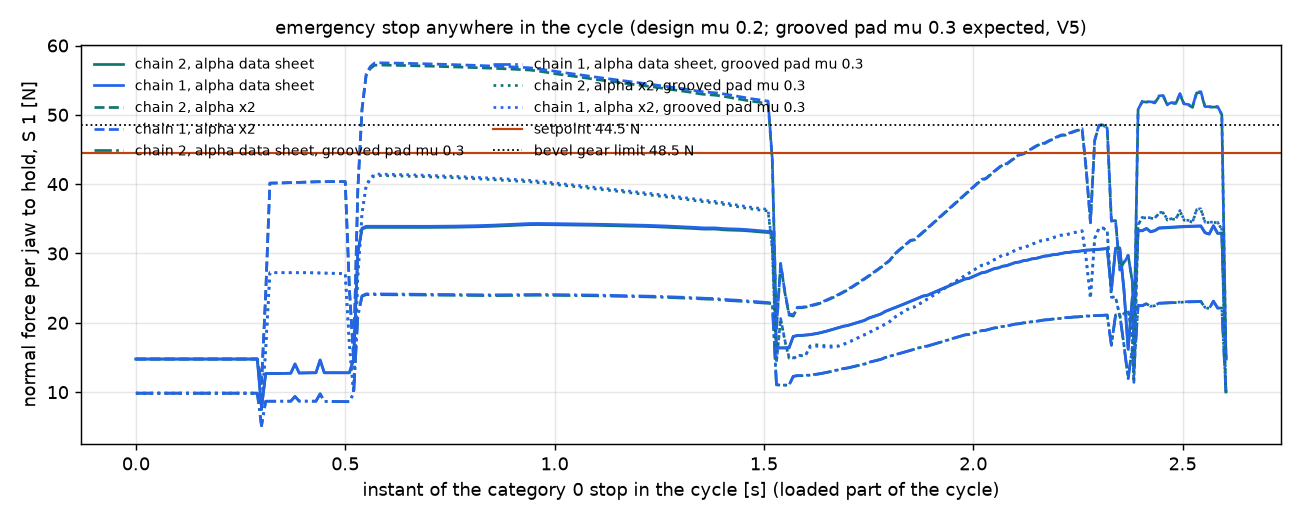
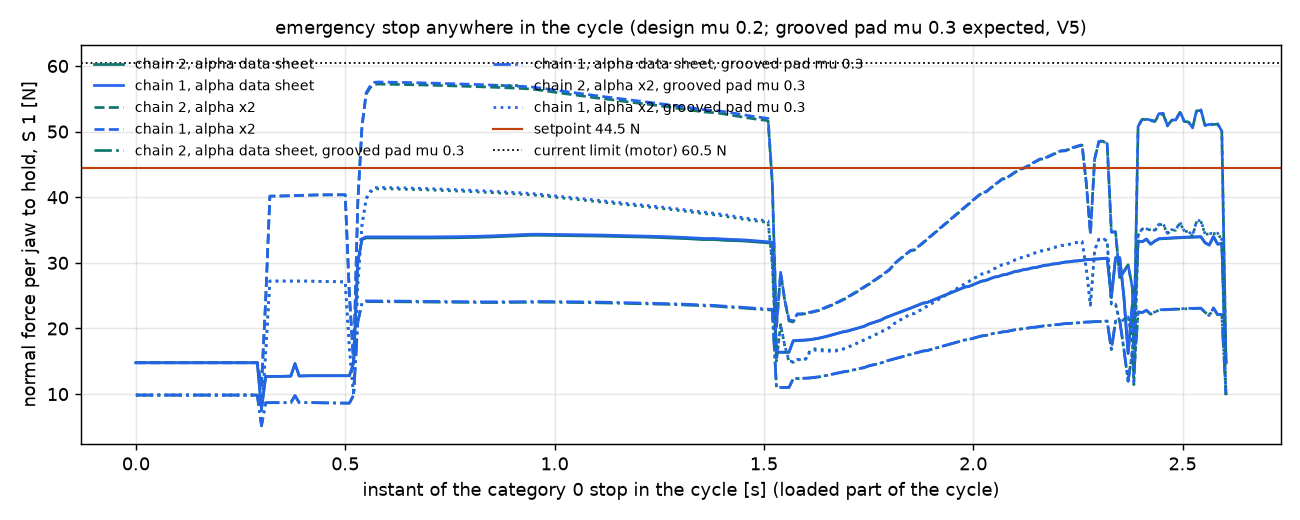
Review 1.7: drive chain margins with tolerances (drive_margin.py); bevel pair KHK SMSG1.5-20 instead of SMSG1-20 (m 1 was loaded 108-144 % with K_A), drive axis 36 mm, hood +2 mm, key 2x2x12, grip force calibrated at commissioning

diff --git a/Elias/02_CAD_Body/drive_margin.py b/Elias/02_CAD_Body/drive_margin.py
@@ -1,0 +1,109 @@
+"""Drive chain margins with tolerances: setpoint < current limit < bevel pair, key and overloads (review 1.7, 21 Nov 2026).
+
+python drive_margin.py  ->  table per bevel option, out/drive_margin.json
+
+Normal operation: the controller sets a motor current; the grip force that results scatters with the motor's torque
+constant, the driver's current accuracy and the efficiencies. Low end: does the part still hold? High end: torque on
+the bevel teeth (driving side, before the bevel loss) against the catalogue rating with the application factor.
+Two ways to set the current: from the data sheet values, or calibrated once at commissioning with a grip force gauge
+(then only the gauge and the drift with temperature remain).
+Rare overloads (a few hundred in the life at most): judged against the static capacity, ISO 6336 life factors for
+induction-hardened steel at N <= 1e5 (flank Z_NT 1.6, torque ~ sigma_H^2; root Y_NT 2.5).
+"""
+import json
+import os
+import sys
+
+HERE = os.path.dirname(os.path.abspath(__file__))
+sys.path.insert(0, HERE)
+import gripper_params as P  # noqa: E402
+
+R = P.PINION_D / 2 / 1000
+K_A = 1.25                       # application factor, V2 (electric motor, light shocks at the part contact)
+LIFE_GRIPS = 16 * 3600 / P.TAKTZEIT * 250 * 10      # 2 shifts, 250 days, 10 years: 2.9e7 load cycles, same teeth each time
+Z_NT_STATIC, Y_NT_STATIC = 1.6, 2.5
+F_NEED = {"path, twist incl., S 2 (grip_check, 5.35 m/s2)": 35.9,
+          "e-stop ABB stop data, S 1 (e_stop.py)": 34.3}
+
+TOL = {   # (low, high) relative to nominal
+    "datasheet": dict(k_t=(0.90, 1.10), current=(0.97, 1.03), eta_g=(0.85 / 0.90, 0.95 / 0.90),
+                      eta_b=(0.97 / 0.98, 0.99 / 0.98), eta_rp=(0.95 / 0.97, 0.98 / 0.97)),
+    "calibrated": dict(force=(0.95, 1.05)),      # force gauge 1 % + k_T drift over 20 ... 60 deg C (NdFeB ~ -0.1 %/K)
+}
+
+BEVELS = {
+    "KHK SMSG1-20 (before 21 Nov)": dict(t_bend=1.17, t_surf=0.97, key_l=8.0, mass_pair=0.038),
+    "KHK SMSG1.5-20 (built)": dict(t_bend=4.1, t_surf=3.47, key_l=12.0, mass_pair=0.055),
+}
+KEY_D, KEY_HUB_H = 8.0, P.KEY_H - P.KEY_T1          # shaft d, key height in the hub (0.8 mm)
+P_KEY_STATIC = 0.9 * 345.0                         # MPa, hub S45C normalised (Re >= 345), DIN 6892 static
+
+
+def torque_on_bevel(f_jaw, eta_b=P.ETA_BEVEL, eta_rp=P.ETA_RP):
+    """Driving-side bevel torque [N*m] for a jaw force [N] (one pinion drives both racks)."""
+    return 2 * R * f_jaw / (eta_b * eta_rp)
+
+
+def operation(f_set=P.F_GRIP_SET):
+    out = {}
+    t_nom = torque_on_bevel(f_set)
+    d = TOL["datasheet"]
+    lo = d["k_t"][0] * d["current"][0] * d["eta_g"][0] * d["eta_b"][0] * d["eta_rp"][0]
+    out["datasheet"] = dict(f_low=f_set * lo, t_high=t_nom * d["k_t"][1] * d["current"][1] * d["eta_g"][1])
+    c = TOL["calibrated"]["force"]
+    out["calibrated"] = dict(f_low=f_set * c[0], t_high=torque_on_bevel(f_set * c[1], 0.97, 0.95))
+    return t_nom, out
+
+
+def key_pressure(t, key_l):
+    return 2 * t * 1000 / (KEY_D * KEY_HUB_H * (key_l - P.KEY_B))
+
+
+def impact_peak():
+    """Largest pad force when closing straight in without the two-stage profile (closing_time.py)."""
+    f = os.path.join(HERE, "..", "04_Simulation", "out", "closing_results.json")
+    cases = json.load(open(f, encoding="utf-8"))["cases"]
+    return max(c["f_peak"] for c in cases if c["profile"] == "direct")
+
+
+def overloads():
+    eta_g_hi = 0.95
+    f_imp = impact_peak()
+    return {
+        "full current (current limit lost), k_T +10 %": P.MOTOR_T_HOLD * 1.10 * P.GEAR_I * eta_g_hi,
+        f"direct close without the two-stage profile ({f_imp:.0f} N impact)": torque_on_bevel(f_imp),
+        "LC5: jaw pushed with power off until the brake slips": P.BRAKE_T * P.GEAR_I,
+    }
+
+
+def main():
+    t_nom, op = operation()
+    res = dict(setpoint=P.F_GRIP_SET, t_nominal=t_nom, K_A=K_A, life_grips=LIFE_GRIPS, f_need=F_NEED,
+               operation=op, overloads=overloads(), bevels={})
+    print(f"setpoint {P.F_GRIP_SET:.1f} N per jaw -> bevel torque {t_nom:.3f} N*m nominal; "
+          f"{LIFE_GRIPS:.2e} grips in 10 years, K_A {K_A}")
+    for mode, v in op.items():
+        print(f"  current set by {mode:10s}: jaw force >= {v['f_low']:.1f} N (needed {max(F_NEED.values()):.1f}),"
+              f" bevel torque <= {v['t_high']:.3f} N*m")
+    for name, b in BEVELS.items():
+        rows = {}
+        print(f"\n{name}: bending {b['t_bend']} N*m, surface {b['t_surf']} N*m (catalogue, 1e7 cycles)")
+        for mode, v in op.items():
+            ub, us = v["t_high"] * K_A / b["t_bend"], v["t_high"] * K_A / b["t_surf"]
+            rows[mode] = dict(use_bending=ub, use_surface=us, key_MPa=key_pressure(v["t_high"], b["key_l"]))
+            print(f"  operation, {mode:10s}: K_A T / T_bend {ub:5.2f}   K_A T / T_surf {us:5.2f}   "
+                  f"key {rows[mode]['key_MPa']:5.0f} MPa")
+        for oname, t in res["overloads"].items():
+            ub = t / (b["t_bend"] * Y_NT_STATIC)
+            us = t / (b["t_surf"] * Z_NT_STATIC ** 2)
+            pk = key_pressure(t, b["key_l"])
+            rows[oname] = dict(torque=t, use_bending=ub, use_surface=us, key_MPa=pk)
+            print(f"  {oname[:58]:58s} {t:5.2f} N*m: static use bending {ub:4.2f}, flank {us:4.2f}, "
+                  f"key {pk:4.0f} of {P_KEY_STATIC:.0f} MPa")
+        res["bevels"][name] = dict(b, rows=rows)
+    os.makedirs(os.path.join(HERE, "out"), exist_ok=True)
+    json.dump(res, open(os.path.join(HERE, "out", "drive_margin.json"), "w", encoding="utf-8"), indent=1)
+
+
+if __name__ == "__main__":
+    main()

diff --git a/Elias/02_CAD_Body/gripper_params.py b/Elias/02_CAD_Body/gripper_params.py
@@ -134,15 +134,19 @@ BACKLASH_SHIFT = 0.05               # racks 0.05 mm further out -> about 0.036 m
 # Motor, gearbox and brake lie along X under a flat hood; a bevel pair 1:1 turns the drive down onto a pinion shaft
 # at x = PINION_X. The racks have different lengths so the jaws, the hood and the flange all stay centred.
 PINION_X = -56.0
-DRIVE_Z = 32.5                      # drive axis height: NEMA 17 (42.3 square) clears the top plate
+DRIVE_Z = 36.0                      # drive axis height: room for the m 1.5 bevel wheel above the upper bearing
 PINION_Z0 = -11.0                   # pinion teeth z -11..-1, 1 mm above the rack bosses on the slides
-# KHK SMSG1-20R / SMSG1-20L: ground spiral miter gears, S45C teeth induction hardened 50-60 HRC, allowable torque
-# 0.97 N*m (surface) / 1.17 N*m (bending). C45 straight bevels carried only 0.70 N*m (V2 § 5, flank at the limit).
-# Reworked: bore 6 -> 8 H7 (+ key 2 on the wheel), hub faced from mounting distance 20 to 16 (tooth area untouched).
-# Modelled with straight teeth as a stand-in, same pitch diameter, face width and hub.
-BEVEL_Z, BEVEL_B, BEVEL_HUB_D, BEVEL_HUB_L = 20, 5.0, 16.0, 6.0
-BEVEL_T_ALLOW = 0.97                # N*m, KHK surface durability (600 rpm, 1e7 cycles): caps the grip force at 48 N
-F_JAW_LIMIT = BEVEL_T_ALLOW / (2 * PINION_D / 2 / 1000)   # N per jaw: current limit in the controller, never above
+# KHK SMSG1.5-20R / SMSG1.5-20L: ground spiral miter gears m 1.5, S45C teeth induction hardened, allowable torque
+# 4.1 N*m (bending) / 3.47 N*m (surface). The m 1 pair (1.17 / 0.97 N*m) carried the setpoint only at K_A 1 and with
+# no tolerance: with K_A 1.25 and the scatter of the current setting it was loaded to 108 ... 144 % (drive_margin.py,
+# review 1.7, 21 Nov). Bore 8 as bought (+ key 2 on the wheel), hubs turned down to 16 (the wheel hub sits inside the
+# DIN 472 ring), the wheel hub faced to mounting distance 19. Modelled with straight teeth, same pitch cone and hub.
+BEVEL_M, BEVEL_Z, BEVEL_B, BEVEL_HUB_D, BEVEL_HUB_L = 1.5, 20, 8.0, 16.0, 5.0
+BEVEL_T_ALLOW, BEVEL_T_BEND = 3.47, 4.1     # N*m, KHK surface durability / bending (catalogue, 600 rpm)
+K_A_DRIVE = 1.25                            # application factor (V2)
+# Current limit = the highest grip force the controller may be set to: the motor at full current (the bevel pair,
+# with K_A and +5 % calibration scatter, would allow about 130 N per jaw).
+F_JAW_LIMIT = min(F_JAW_AVAIL, BEVEL_T_ALLOW / K_A_DRIVE * ETA_BEVEL * ETA_RP / (2 * PINION_D / 2 / 1000) / 1.05)
 assert F_GRIP_SET <= F_JAW_LIMIT <= F_JAW_AVAIL, (F_GRIP_SET, F_JAW_LIMIT, F_JAW_AVAIL)
 BEARING = (8.0, 22.0, 7.0)          # DIN 625 608-2Z
 BEARING_LOWER_Z, BEARING_UPPER_Z = 0.0, 9.5
@@ -151,14 +155,14 @@ BOSS_TOP = BEARING_UPPER_Z + BEARING[2] + 2.0   # 2 mm above the upper bearing f
 SHOULDER_D = 15.0                   # housing shoulder under the outer rings only (608 inner ring OD ~12, outer ring ID ~18.6)
 SHIM_T = 0.5                        # DIN 988 8x14 under the bevel wheel hub, 0.1-0.5 picked at assembly to set the mesh
 COLLAR_D = 10.5                     # shaft collar under the lower inner ring (loose bearing, inner ring k6 on the shaft)
-KEY_B, KEY_H, KEY_T1, KEY_T2, KEY_L = 2.0, 2.0, 1.2, 1.0, 8.0   # DIN 6885 A 2x2x8 for d = 6...8
-SHAFT_TOP = 27.0
+KEY_B, KEY_H, KEY_T1, KEY_T2, KEY_L = 2.0, 2.0, 1.2, 1.0, 12.0  # DIN 6885 A 2x2x12 for d = 6...8
+SHAFT_TOP = 30.0                     # carries the 12 mm key inside the m 1.5 wheel
 BEVEL_WHEEL_DZ = -0.25              # 0.25 mm lower than nominal: interference-free mesh with a little backlash (fitted)
 GEAR_SHAFT_L = 22.6                 # GP42 output shaft beyond the flange (STEP)
 BRACKET_T, BRACKET_FOOT_Y, BRACKET_FOOT_W = 6.0, 25.25, 6.5   # feet beside the gearbox, M3
 HOOD_Y, HOOD_WALL, HOOD_R = 38.0, 3.0, 12.0     # hood y = +-38: symmetric, flush with the flange (D76) and the +y face
 BRAKE_TURN_X = 95.0                 # brake leads stay inside the hood (the STEP has open lead stubs)
-HOOD_TOP, HOOD_TOP_T, HOOD_SEAT = 63.0, 5.0, 3.0   # 3 mm seat ring under the adapter carries the M4 threads
+HOOD_TOP, HOOD_TOP_T, HOOD_SEAT = 65.0, 5.0, 3.0   # 3 mm seat ring under the adapter carries the M4 threads
 HOOD_SCREW_X, HOOD_SCREW_Y = 69.5, (-25.0, 25.0)   # M4 from below into bosses in the hood corners
 RACK_SPAN = {1: (-72.5, 37.5), -1: (-61.98, -18.0)}     # x at d = 0
 RACK_TEETH_SIDE = {1: 35, -1: 14}

diff --git a/Elias/02_CAD_Body/build.py b/Elias/02_CAD_Body/build.py
@@ -95,7 +95,7 @@ def build_static(gear_pin, gear_racks, bev):
             "Bevel_Wheel": (D.wheel(bev), "steel", "rot"),
             "Bevel_Pinion": (D.bevel_pinion(bev), "steel", "rotx"),
             "Setscrew_ISO4029-M4x4_Wheel": (F.iso4029_x(4, 4, xp - P.BEVEL_HUB_D / 2, 0, D.hub_z0() + 3, 1), "steel", "rot"),
-            "Key_DIN6885-A2x2x8": (D.key(), "steel", "rot"),
+            "Key_DIN6885-A2x2x12": (D.key(), "steel", "rot"),
             "Shim_DIN988-8x14": (D.shim(), "steel", "rot"),
             "Window_Plate": (D.window_plate(), "EN AW-6082", 0),
             "Cable_Gland_Lapp_SKINTOP_M16": (D.gland(), "vendor", 0),
@@ -335,8 +335,8 @@ BOM_INFO = {
     "Hood": ("Drive hood", "own part, milled", "EN AW-6082 T6"),
     "Bracket": ("Drive bracket", "own part, milled", "EN AW-6082 T6"),
     "Pinion_Shaft": ("Pinion shaft m = 1, z = 20", "own part, turned + hobbed", "16MnCr5 case hardened"),
-    "Bevel_Wheel": ("Spiral miter gear m = 1, z = 20, left hand; rebored 8 H7 + key 2, hub faced to mounting dist. 16", "KHK SMSG1-20L", "S45C, teeth induction hardened"),
-    "Bevel_Pinion": ("Spiral miter gear m = 1, z = 20, right hand; rebored 8 H7, hub faced to mounting dist. 16", "KHK SMSG1-20R", "S45C, teeth induction hardened"),
+    "Bevel_Wheel": ("Spiral miter gear m = 1.5, z = 20, left hand; bore 8 H7 + key 2, hub turned to D16, faced to mounting dist. 19", "KHK SMSG1.5-20L", "S45C, teeth induction hardened"),
+    "Bevel_Pinion": ("Spiral miter gear m = 1.5, z = 20, right hand; bore 8 H7, hub turned to D16 x 5", "KHK SMSG1.5-20R", "S45C, teeth induction hardened"),
     "Bearing_608_lower": ("Deep groove ball bearing 608-2Z", "DIN 625 (Schaeffler / SKF)", "steel"),
     "Bearing_608_upper": ("Deep groove ball bearing 608-2Z", "DIN 625 (Schaeffler / SKF)", "steel"),
     "Adapter_ISO9409": ("Robot adapter ISO 9409-1-40-4-M6", "own part, turned", "EN AW-6082 T6"),
@@ -364,7 +364,7 @@ BOM_INFO = {
     "Spring_Guide": ("Spring guide pin d 9 h7, pressed into the driver", "own part, turned", "C45"),
     "Fitting_QSM-M5-4": ("Push-in fitting QSM-M5-4 (cylinder ports)", "Festo", "-"),
     "Bulkhead_QSS-4": ("Push-in bulkhead fitting QSS-4 (riser wall, tubes PUN-4 to the valve)", "Festo", "-"),
-    "Key_DIN6885-A2x2x8": ("Parallel key DIN 6885 A 2 x 2 x 8 (bevel wheel)", "standard part", "C45+C"),
+    "Key_DIN6885-A2x2x12": ("Parallel key DIN 6885 A 2 x 2 x 12 (bevel wheel)", "standard part", "C45+C"),
     "Shim_DIN988-8x14": ("Shim ring DIN 988 8 x 14 x 0.1 / 0.2 / 0.5 (set the bevel mesh)", "standard part", "spring steel"),
     "Circlip_DIN471-8": ("Retaining ring DIN 471 8 x 0.8 (fixed bearing, shaft)", "standard part", "spring steel"),
     "Circlip_DIN472-22": ("Retaining ring DIN 472 22 x 1 (fixed bearing, bore)", "standard part", "spring steel"),
@@ -504,7 +504,7 @@ def main():
     report["inertia_cog_kgm2"] = [[v * 1e-6 for v in row] for row in J]
     print(f"inertia about the CoG [kg*m2]: Jxx {J[0][0] * 1e-6:.5f}, Jyy {J[1][1] * 1e-6:.5f}, Jzz {J[2][2] * 1e-6:.5f}")
     print(f"grip force per jaw: required {P.F_GRIP_OILY:.1f} N (hand calc.), setpoint {P.F_GRIP_SET:.1f} N (real path), "
-          f"current limit {P.F_JAW_LIMIT:.1f} N (bevel), available {P.F_JAW_AVAIL:.1f} N, strength case {P.F_JAW_MAX:.1f} N; "
+          f"current limit {P.F_JAW_LIMIT:.1f} N, available {P.F_JAW_AVAIL:.1f} N, strength case {P.F_JAW_MAX:.1f} N; "
           f"brake {P.T_PINION_BRAKE:.2f} N*m at the pinion")
     print(f"flange face z = {info['flange_z']:.1f}, cover underside z = {P.POCKET_Z - P.COVER_T:.1f}, "
           f"build height {info['flange_z'] - (P.POCKET_Z - P.COVER_T):.1f} mm above the jaws")

diff --git a/Elias/02_CAD_Body/parts/drive.py b/Elias/02_CAD_Body/parts/drive.py
@@ -14,7 +14,7 @@ def bevel_gears(doc):
     from freecad.gears.bevelgear import BevelGear
     g = doc.addObject("Part::FeaturePython", "_bevel_gen")
     BevelGear(g)
-    g.num_teeth, g.module, g.height, g.pitch_angle = P.BEVEL_Z, P.MODUL, P.BEVEL_B, 45
+    g.num_teeth, g.module, g.height, g.pitch_angle = P.BEVEL_Z, P.BEVEL_M, P.BEVEL_B, 45
     doc.recompute()
     s = g.Shape.copy()
     doc.removeObject(g.Name)
@@ -54,7 +54,7 @@ def key_z():
 
 
 def key():
-    """DIN 6885 A 2x2x8 in the shaft (t1 = 1.2) and the wheel hub (t2 = 1.0)."""
+    """DIN 6885 A 2x2x12 in the shaft (t1 = 1.2) and the wheel hub (t2 = 1.0)."""
     k0, k1 = key_z()
     x0 = XP + P.BEARING[0] / 2 - P.KEY_T1 + 0.05
     return box(x0, x0 + P.KEY_H, -P.KEY_B / 2, P.KEY_B / 2, k0, k1)
@@ -81,9 +81,9 @@ def circlip_bore():
 def wheel(bev):
     """Bevel wheel on the pinion shaft: large end down, apex on the drive axis."""
     s = bev.copy()
-    s.translate(V(XP, 0, ZA - P.BEVEL_Z * P.MODUL / 2 + P.BEVEL_WHEEL_DZ))
+    s.translate(V(XP, 0, ZA - P.BEVEL_Z * P.BEVEL_M / 2 + P.BEVEL_WHEEL_DZ))
     z_hub = hub_z0()
-    s = s.fuse(cylz(P.BEVEL_HUB_D / 2, z_hub, ZA - P.BEVEL_Z * P.MODUL / 2 + 0.1, XP, 0))
+    s = s.fuse(cylz(P.BEVEL_HUB_D / 2, z_hub, ZA - P.BEVEL_Z * P.BEVEL_M / 2 + 0.1, XP, 0))
     s = s.cut(cylz(P.BEARING[0] / 2, z_hub - 1, ZA + 1, XP, 0))
     s = s.cut(box(XP + P.BEARING[0] / 2 - 1, XP + P.BEARING[0] / 2 + P.KEY_T2, -P.KEY_B / 2, P.KEY_B / 2, z_hub - 1, ZA + 1))   # keyway
     s = s.cut(cylx(1.65, XP - P.BEVEL_HUB_D / 2 - 1, XP - P.BEARING[0] / 2 + 0.5, 0, z_hub + 3))   # M4 set screw, axial only
@@ -92,7 +92,7 @@ def wheel(bev):
 
 def bevel_pinion(bev):
     """Bevel pinion on the gearbox shaft: axis along X, apex at the pinion shaft axis."""
-    r = P.BEVEL_Z * P.MODUL / 2
+    r = P.BEVEL_Z * P.BEVEL_M / 2
     s = bev.copy()
     s = s.fuse(cylz(P.BEVEL_HUB_D / 2, -P.BEVEL_HUB_L, 0.1))
     s = s.cut(cylz(P.BEARING[0] / 2, -P.BEVEL_HUB_L - 1, r + 1))
@@ -103,7 +103,7 @@ def bevel_pinion(bev):
 
 
 def gearbox_flange_x():
-    return XP + P.BEVEL_Z * P.MODUL / 4 + P.GEAR_SHAFT_L    # shaft end reaches the small end of the bevel pinion
+    return XP + 5.0 + P.GEAR_SHAFT_L    # shaft end 5 mm from the pinion shaft axis, inside the m 1.5 bevel pinion's bore
 
 
 def bracket_screws():  # M3

diff --git a/Elias/04_Simulation/e_stop.py b/Elias/04_Simulation/e_stop.py
@@ -153,7 +153,7 @@ def plot(out):
             rows = np.array(sc["_rows"][c])
             ax.plot(rows[:, 0], rows[:, 1], ls, color=col, lw=1.5, label=f"{c.replace('_', ' ')}, alpha {tag}")
     ax.axhline(out["setpoint"], color="#C2410C", lw=1.2, label=f"setpoint {out['setpoint']:.1f} N")
-    ax.axhline(out["current_limit"], color="k", lw=1.0, ls=":", label=f"bevel gear limit {out['current_limit']:.1f} N")
+    ax.axhline(out["current_limit"], color="k", lw=1.0, ls=":", label=f"current limit (motor) {out['current_limit']:.1f} N")
     ax.set_xlabel("instant of the category 0 stop in the cycle [s] (loaded part of the cycle)")
     ax.set_ylabel("normal force per jaw to hold, S 1 [N]")
     ax.set_title("emergency stop anywhere in the cycle (design mu 0.2; grooved pad mu 0.3 expected, V5)", fontsize=10)

diff --git a/Elias/04_Simulation/drive.py b/Elias/04_Simulation/drive.py
@@ -19,7 +19,7 @@ POLE_PAIRS = 50                                   # 1.8 deg step
 K_M = GP.MOTOR_T_HOLD / I_RATED                   # N*m/A = V*s/rad
 # Not on the datasheets, estimated: GP42 1-stage input side, BWA friction disc (~8 g, d 30), bevel pair + pinion shaft
 J_GEAR_IN, J_BRAKE = 1.5e-6, 1.0e-6
-J_OUT = 2 * 0.5 * 0.012 * 0.010 ** 2 + 0.5 * 0.035 * 0.005 ** 2   # at the pinion: bevel gears + shaft
+J_OUT = 2 * 0.5 * 0.028 * 0.012 ** 2 + 0.5 * 0.035 * 0.005 ** 2   # at the pinion: m 1.5 bevel gears (CAD 26 + 29 g) + shaft
 # moving mass per jaw: slide, holder, jaw, ball carriage, rack (bom.csv)
 M_JAW = (73 + 29 + 31 + 51 + 65) / 1000.0
 F_FRICTION = 2.5                                  # N per jaw: carriage seals + brush seal along the slot (estimate)

diff --git a/Elias/02_CAD_Body/parts/cabinet.py b/Elias/02_CAD_Body/parts/cabinet.py
@@ -9,7 +9,7 @@ import os
 # (designation, standard / supplier, qty, why)
 CABINET_BOM = [
     ("Closed-loop stepper controller, 12-58 V, 3 A / 6 A peak, encoder input, brake output, 4 DI / 2 DO, NanoJ",
-     "Nanotec CL4-E-1-12", 1, "drives motor, encoder and brake; current limit = grip force (48.5 N max per jaw)"),
+     "Nanotec CL4-E-1-12", 1, "drives motor, encoder and brake; current limit = grip force (setpoint 44.5 N per jaw, calibrated at commissioning)"),
     ("Power supply 24 V DC, 5 A (120 W), DIN rail", "Mean Well SDR-120-24", 1,
      "about 2.5x the peak load, recharges the buffer"),
     ("Buffer module 24 V, >= 200 ms at 20 A (> 1 s at the 2 A of the gripper), capacitive", "PULS UF20.241", 1,

diff --git a/Elias/01_Robot/mark_datasheets.py b/Elias/01_Robot/mark_datasheets.py
@@ -65,7 +65,7 @@ SHEETS = [
      [("row", "7,8", 0)]),
     ("khk_smsg", os.path.join(CAD_V, "khk_smsg_p260.pdf"), 1,
      "SMSG1-20R/L: allowable torque 1.17 N m (bending), 0.97 N m (surface), teeth induction hardened",
-     "bevel pair after V2 § 5; 0.97 N m sets the current limit 48.5 N per jaw",
+     "bevel pair after V2 § 5; m 1 pair replaced by SMSG1.5-20 (4.1 / 3.47 N m) on 21 Nov, drive_margin.py",
      [("row", "0.97", 0), ("first", "Teeth induction hardened")]),
 ]
 

diff --git a/Elias/02_CAD_Body/CAD_PLAN.md b/Elias/02_CAD_Body/CAD_PLAN.md
@@ -11,7 +11,7 @@ Status: 10 Nov 2026, proposal. Replaces "Onshape is the leading CAD model" in PL
 | D3 | Standard parts | **Standard or catalogue part wherever one exists**, from large, well-known (preferably German) manufacturers, metric; own parts only where the geometry is specific to part B or to our layout | Shorter BOM, ratings come from datasheets instead of own proofs, cheaper to justify. |
 | D4 | Guide | **Miniature ball rail size 9, one rail, two carriages** (Bosch Rexroth: carriage SLS **R0444 913 01**, rail **R0445**, L = 110), rail on a 3 mm land that is also the reference shoulder; C0 = 3150 N, Mt0 = 14.5 N·m, ML0 = 14.0 N·m (catalogue R999001206). Worst case 63.6 N × ≈ 70 mm ≈ 4.5 N·m → S0 ≈ 3 (≈ 2 with the yaw moment added); normal operation (≈ 36 N) S0 ≈ 4 | Catalogue part with rated static moments; size 9 instead of 12 since 10 Nov to slim the housing. One shared rail keeps both jaws parallel by construction. |
 | D5 | Gear | **m = 1, pinion z = 20 (d = 20 mm), steel racks, both catalogue** | z = 20 is above the undercut limit (17), no profile shift. 14 mm stroke = 80° pinion rotation. Pinion torque for 14.3 N per jaw: 2 · 14.3 N · 10 mm = **0.29 N·m**. `cad/params.py` already says z = 20; PLAN.md still says z = 16 and gets corrected. |
-| D6 | Drive | **Lying drive under a flat hood** (variant 4, decided 10 Nov 2026): Nanotec ST4118S1404-B + GP42-S1-7-SR + BRAKE-BWA-0,35-5 along X; a 1:1 bevel pair (Maedler m = 1, z = 20) turns it onto a pinion shaft (own part, two DIN 625 608-2Z) at x = -56. Racks of 35 and 14 teeth keep jaws, hood and flange centred because both racks always run at the same speed in opposite directions. | Stem 63 mm instead of 124 mm, flange to grip centre 148 mm instead of 208 mm, nothing overhangs; COG 3 mm off the flange axis. GPLE22 rejected: 20 N permissible shaft load against ≈ 30 N from the bevel pinion. Static torque at the pinion 1.27 N·m (63.6 N per jaw), brake 2.5 N·m. |
+| D6 | Drive | **Lying drive under a flat hood** (variant 4, decided 10 Nov 2026): Nanotec ST4118S1404-B + GP42-S1-7-SR + BRAKE-BWA-0,35-5 along X; a 1:1 bevel pair (KHK SMSG1.5-20 R/L since 21 Nov, ground spiral teeth, m = 1.5, z = 20) turns it onto a pinion shaft (own part, two DIN 625 608-2Z) at x = -56. Racks of 35 and 14 teeth keep jaws, hood and flange centred because both racks always run at the same speed in opposite directions. | Stem 63 mm instead of 124 mm, flange to grip centre 148 mm instead of 208 mm, nothing overhangs; COG 3 mm off the flange axis. GPLE22 rejected: 20 N permissible shaft load against ≈ 30 N from the bevel pinion. Static torque at the pinion 1.27 N·m (63.6 N per jaw), brake 2.5 N·m. |
 | D7 | Jaw quick change | **2 dowel pins ISO 8734 + 1 indexing plunger (catalogue, e.g. GN 617) per jaw** on the carriage plate | The assignment requires quick-change jaws ("Greiferzangen ... mit einem Schnellwechselsystem"), not a tool changer. Pins locate, the plunger locks, no tool needed. |
 | D8 | Robot interface | **Round adapter Ø76 to ISO 9409-1-40-4-M6** (ABB IRB 1300-7/1.4), fixed to the motor housing lid from the top with 4 × ISO 10642 M4 on PCD 62 | Prescribed by the robot; screw heads stay reachable outside the robot flange. |
 | D9 | Visuals | **Blender** (glTF from FreeCAD) for materials, renders and the open/close animation | FreeCAD has no proper material rendering. Same parameters drive the Blender rig. |
@@ -244,6 +244,31 @@ for the load, thread engagement by material, sealing, fits). Found and fixed in 
    gripper). Now 2 mm bosses (1.7 × d), HELICOIL inserts for bracket and adapter (1.5 × d with insert; a 2 × d thread would come within 1 mm of the pocket edge).
 6. Holder slots in the cover open to oil and chips: brush seal strips (BOM).
 7. Fits and tolerances missing: section 9.
+
+## 11. Drive chain margins (review 1.7, 21 Nov 2026, `drive_margin.py`, `out/drive_margin.json`)
+
+The setpoint 44.5 N per jaw puts 0.94 N·m on the bevel teeth (driving side, after the losses of bevel and rack).
+The m 1 pair KHK SMSG1-20 is rated 0.97 N·m (flank) / 1.17 N·m (root), so it only held at K_A = 1 and with no
+scatter of the current setting. Life: one load cycle per grip on the same few teeth, 2.9e7 in 10 years (2 shifts).
+
+| | current set from data sheets (k_T ±10 %, driver ±3 %, η ranges) | calibrated at commissioning (force gauge, ±5 %) |
+|---|---|---|
+| lowest jaw force (needed 35.9 N: path with twist, S 2) | 35.6 N ✗ | **42.3 N** ✓ |
+| highest bevel torque | 1.12 N·m | 1.01 N·m |
+| SMSG1-20 (m 1): K_A·T / T_root, K_A·T / T_flank | 1.20, 1.44 ✗ | 1.08, 1.31 ✗ |
+| **SMSG1.5-20 (m 1.5, built)** | 0.34, 0.40 ✓ | **0.31, 0.37** ✓ |
+
+Rare overloads against the static capacity (ISO 6336 life factors, induction hardened: flank Z_NT 1.6, root
+Y_NT 2.5) with the m 1.5 pair: full current if the current limit is lost 1.48 N·m (use 0.17), direct close in 0.12 s
+without the two-stage profile, 160 N impact (`closing_time.py`) 3.36 N·m (0.38), LC5 jaw pushed with the power off until the brake slips 2.47 N·m (0.28, the
+m 1 pair was at 1.00). Key DIN 6885 A 2×2×12 in the S45C hub: 32 MPa in operation, 77 MPa at LC5 (static limit
+310 MPa).
+
+Consequences: bevel pair m 1.5 (bore 8 as bought, hubs turned to Ø16, wheel faced to mounting distance 19), drive
+axis 32.5 → 36 mm, hood 2 mm higher, gearbox shaft reaches 5 mm from the pinion shaft axis so motor, brake and
+encoder stay where they were; gripper 3.053 kg. The grip force is calibrated once at commissioning with a grip
+force gauge (current setting from the data sheets alone may give 35.6 N). The current limit is now the motor at full
+current (60.5 N per jaw), no longer the bevel pair.
 
 ## Second version: pneumatic drive (21 Nov 2026, `GRIPPER_DRIVE=pneumatic`, output `out_pneumatic/`)
 

diff --git a/Elias/04_Simulation/README.md b/Elias/04_Simulation/README.md
@@ -60,16 +60,15 @@ between the jaws included). Normal force per jaw needed at S = 1:
 | ABB stop data, grooved pad µ 0.3 (expected, V5) | t = 0.55 s | 23.7 m/s² | 24.2 N | held, S 1.8 |
 | twice the ABB rates, grooved pad µ 0.3 | t = 0.58 s | 42.7 m/s² | 41.5 N | held, S 1.07 |
 
-Decision 21 Nov: more friction, not more force. The force chain is at its limit (bevel gear endurance 48.5 N, motor
-60.5 N); a higher friction coefficient costs nothing in loads and weight. The pads get vertical oil-drain grooves;
+Decision 21 Nov: more friction, not more force. More force would mean a bigger motor (60.5 N per jaw at full current); a higher friction coefficient costs nothing in loads and weight. The pads get vertical oil-drain grooves;
 the design proof keeps µ = 0.2, the grooved pad's expected µ ≥ 0.3 (oil-resistant NBR gripper pads 0.3 ... 0.4,
 HKI) is the reserve for hard stops and is measured in V5 (`Viktoriia/05_Print_Check/friction_test.md`). The 82 m/s²
 case is not held by any reasonable friction grip (it would need 123 N at µ 0.2); there the closed enclosure keeps a
 slipping part inside the cell, and the brake keeps the jaws closed.
 
 The grip force does not rise in an e-stop (the brake holds the preload; the part's inertia goes into the pad
-friction), so the bevel gear sees no extra load; the setpoint itself is capped by the bevel gear's endurance
-(48.5 N). The 82 m/s² are ABB's value for tool strength: FEM load case LC4 uses them (S ≥ 12.5).
+friction), so the drive sees no extra load. Bevel pair, key and overloads: `02_CAD_Body/drive_margin.py`
+(review 1.7: m 1.5 pair since 21 Nov). The 82 m/s² are ABB's value for tool strength: FEM load case LC4 uses them (S ≥ 12.5).
 
 **Creep base.** On the via path the part creeps 2.3-2.4 mm along the pads whatever the grip force: 25, 35.7, 44.5,
 48.5 and 100 N per jaw all give the same movement, a finer time step gives more (1 ms 1.72, 0.5 ms 2.38, 0.25 ms
@@ -162,17 +161,17 @@ has to be laid over it.
 
 | Profile | contact | grip force within 5 % | peak pad force | motor peak |
 |---|---|---|---|---|
-| direct, trapezoid 0.25 s | 177 ms at 51 mm/s | 195 ms | 73.0 N (1.4 ×) | 324 rpm, 0.018 of 0.136 N·m |
-| direct, trapezoid 0.12 s | 86 ms at 109 mm/s | 100 ms | 138.7 N (3.0 ×) | 675 rpm, 0.030 of 0.136 N·m |
-| two-stage: 0.12 s to 1 mm before the part, then 10 mm/s | 173 ms at 10 mm/s | 263 ms | 45.3 N (1.0 ×) | 591 rpm, 0.028 of 0.136 N·m |
+| direct, trapezoid 0.25 s | 177 ms at 52 mm/s | 195 ms | 66.5 N (1.5 ×) | 324 rpm, 0.018 of 0.136 N·m |
+| direct, trapezoid 0.12 s | 86 ms at 111 mm/s | 101 ms | 159.8 N (3.6 ×) | 675 rpm, 0.030 of 0.136 N·m |
+| two-stage: 0.12 s to 1 mm before the part, then 10 mm/s | 173 ms at 10 mm/s | 266 ms | 45.9 N (1.0 ×) | 591 rpm, 0.028 of 0.136 N·m |
 
 - Torque is not the limit: the motor could cover the 8 mm in 45 ms. The motor uses at most a quarter of its torque.
 - The limit is the impact. Rotor, gearbox and brake act like 3.2 kg on the jaws, seven times the jaws themselves
   (0.47 kg), and the current limit cannot stop this inertia before the pads hit: driving straight in at 50 mm/s
-  gives 77 N, more than the FEM's full-current case (63.6 N); the undamped estimate with a 3 mm NBR pad is even
+  gives 67 N, more than the FEM's full-current case (63.6 N); the undamped estimate with a 3 mm NBR pad is even
   higher (`impact_estimate`, no damping, upper bound).
 - **Recommendation:** two-stage profile, fast to 1 mm before the part and the last millimetre at 10 mm/s
-  (NanoJ program or two position records in the CL4-E). Meets 0.3 s with 45 ms to spare, no force overshoot.
+  (NanoJ program or two position records in the CL4-E). Meets 0.3 s with 34 ms to spare, no force overshoot.
 - The MuJoCo contact stiffness is not calibrated to the pad; the peaks are a comparison between the profiles,
   the order of magnitude is backed by the estimate.
 
